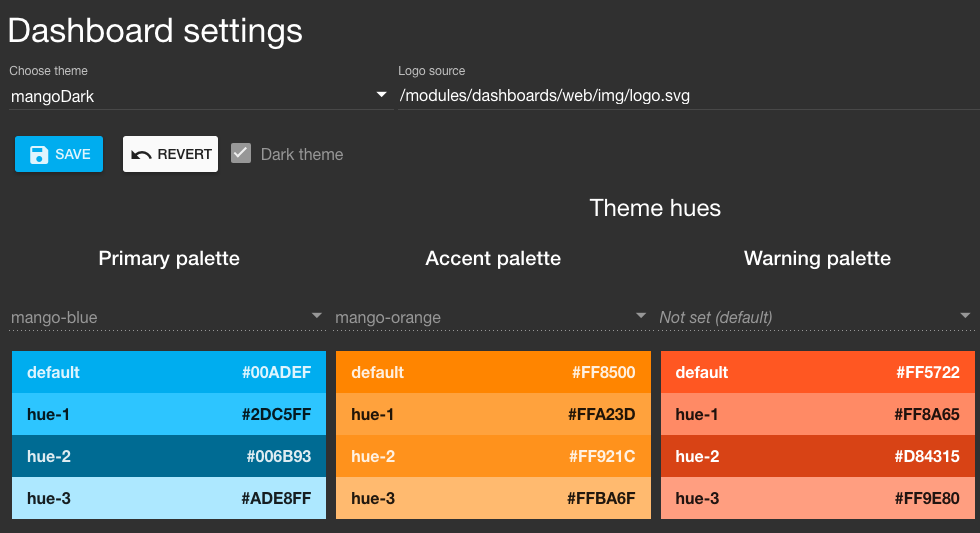
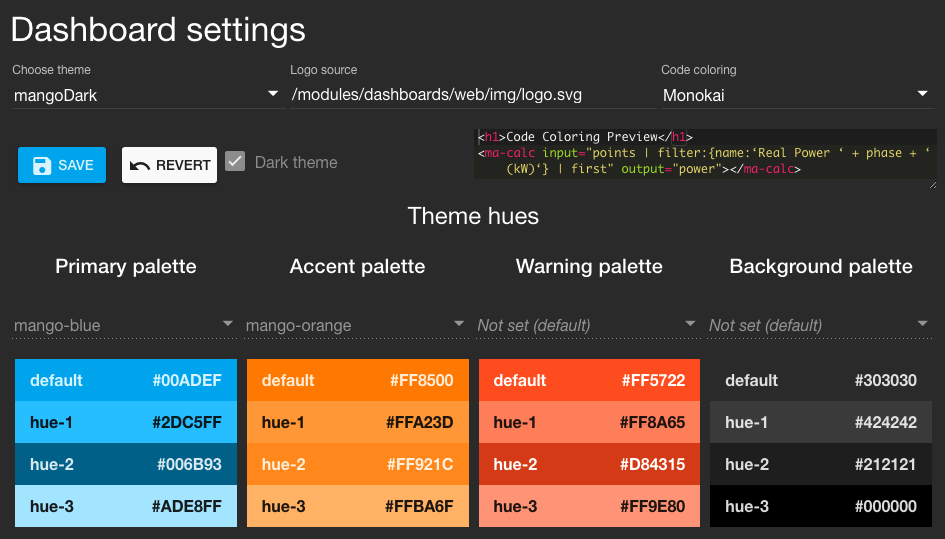
Update Dashboard Settings Help Page

diff --git a/Custom Dashboards/web/mdAdmin/views/help/dashboardSettings.html b/Custom Dashboards/web/mdAdmin/views/help/dashboardSettings.html
@@ -2,11 +2,19 @@
     <h1 ma-tr="dashboards.v3.app.dashboardSettings"></h1>
 
     <p>
-        The <a ui-sref="dashboard.settings.dashboardSettings">Dashboard Settings</a> page can be used to change the entire 
-        <code>Color Theme</code> of the dashboard as well as switch the <code>Logo</code> with your own image.
+        The <a ui-sref="dashboard.settings.dashboardSettings">Dashboard Settings</a> page can be used to change the 
+        <code>Theme Colors</code> of the dashboard, swap out the <code>Logo</code> with your own, and set the <code>Code Coloring</code>.
     </p>
     
     <img md-whiteframe="5" style="max-width: 100%" ng-src="/modules/dashboards/web/mdAdmin/views/help/images/Help-ScreenShots-DashboardSettings.png" alt="Help-ScreenShots-DashboardSettings"/>
+    
+    <p>
+        If you would like to use your own logo you should put it in the
+		image folder in your overrides. Create a new folder at
+		<code>${MA_HOME}/overrides/web/modules/dashboards/web/images</code> if you haven't already and place 
+		your logo image in there. You can then reference the logo using
+		<code>/modules/dashboards/web/images/myLogo.png</code>
+    </p>
     
     <p>
         If you choose the <code>User Theme</code> option you can choose from the 
@@ -29,6 +37,14 @@
     
     <p> 
         You can turn on <code>Dark Mode</code> on any theme by checking the <code>Dark Theme</code> option.
+        A dark version of the background palette will be used and white text will display on top for maximum contrast.
+    </p>
+    
+    <p> 
+        Additionally you can set the <code>Code Coloring Theme</code> to be used across the dashboard. 
+        Choose a theme from the dropdown and you will see a live preview of the code coloring below.
+        Once saved, the <code>Code Coloring Theme</code>  will be used in the <code>Page Editor, Play Area, Demos,</code>
+        and <code>API Docs</code>.
     </p>
 
 </div>
